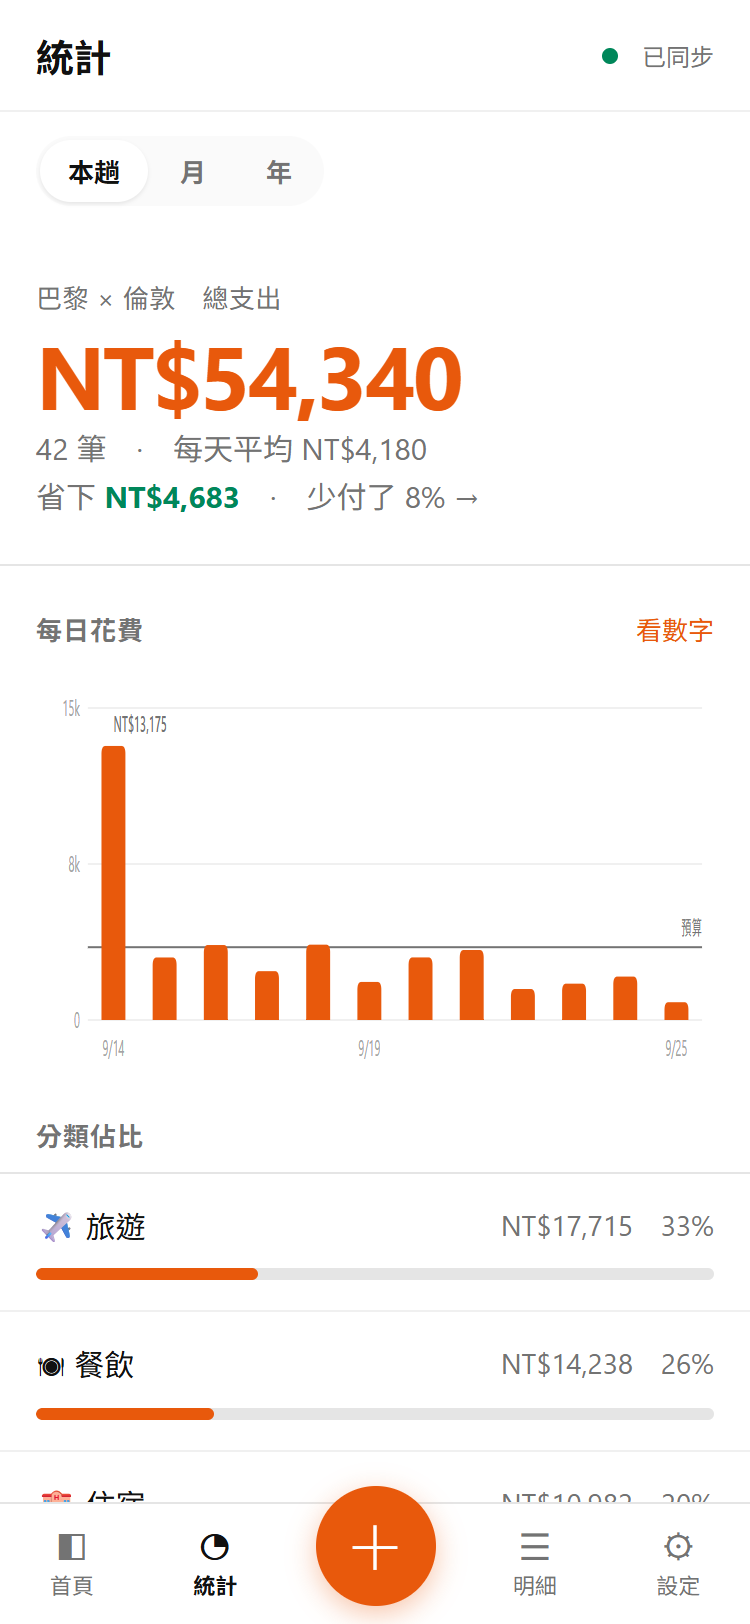
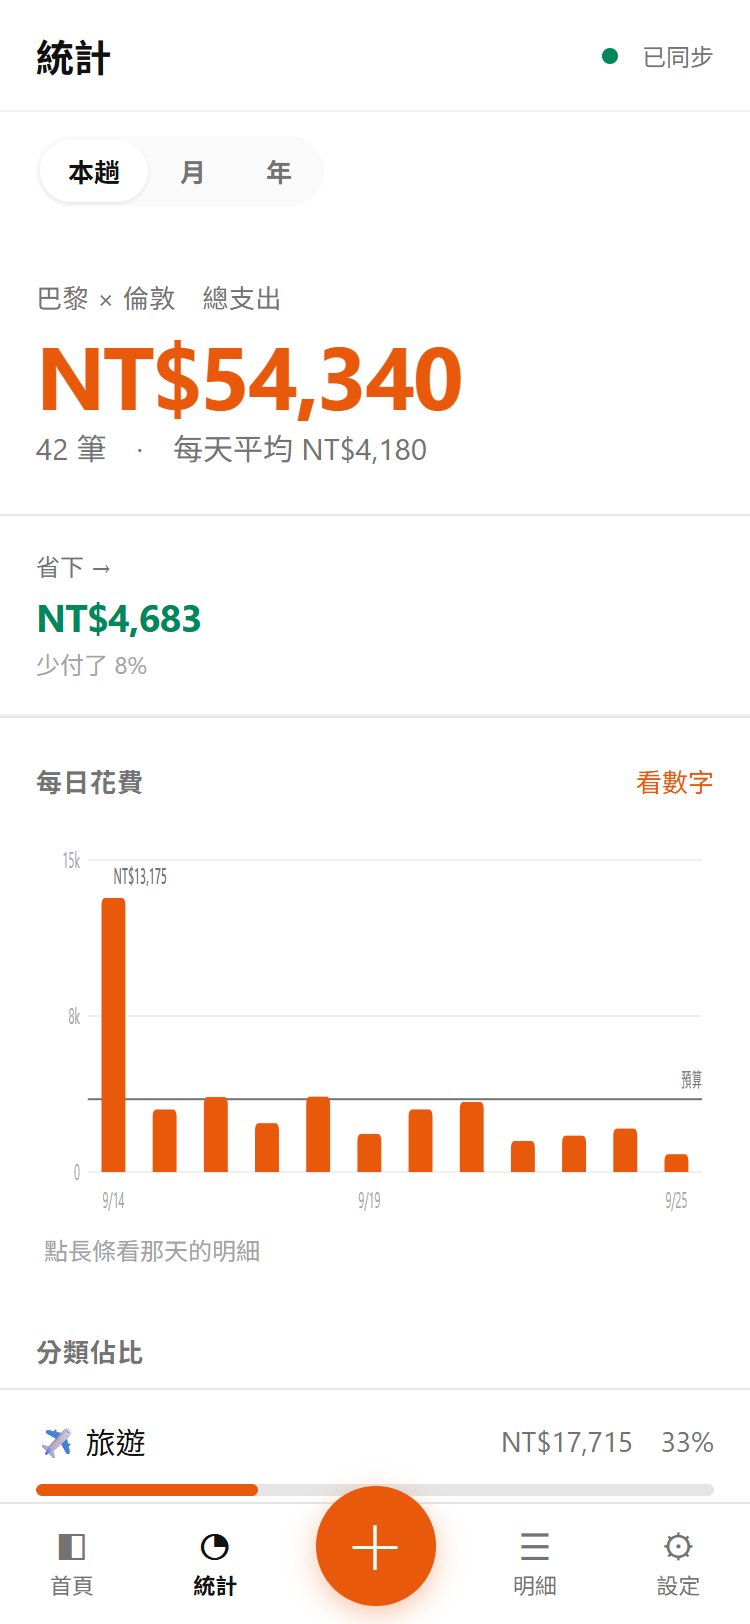
同步私有版：統計頁總支出下兩格並排、點長條展開當天明細

diff --git a/public/app.js b/public/app.js
@@ -26,6 +26,7 @@ const state = {
   selectedDate: null,        // 月曆選中的日期；記帳會落在這天
   statsPeriod: "trip",       // 'trip' | 'month' | 'year'
   statsMonth: "",            // YYYY-MM
+  statsDay: null,            // 統計圖點選的那天，圖表下方展開明細
   statsYear: "",             // YYYY
 };
 
@@ -2503,6 +2504,33 @@ function statsPeriodBar() {
   </div>`;
 }
 
+// 總支出下面的「跟上期比」與「省下」，兩格並排。
+// 原本是兩行小字接在總支出後面，手機上擠成一團（使用者回報過），改成跟首頁數字格同一種樣子。
+
+function compareParts(scope, total, prevTotal, savedRows, savedTotal) {
+  const prev = prevTotal !== null && (prevTotal || total) ? (() => {
+    if (!prevTotal) return { none: `${scope.prevLabel}沒有紀錄` };
+    const diff = total - prevTotal;
+    return { label: `比${scope.prevLabel}`, word: diff >= 0 ? "多" : "少", amount: Math.abs(diff),
+             pct: Math.round(Math.abs(diff) / prevTotal * 100), prevTotal,
+             color: diff > 0 ? "var(--danger)" : "var(--ok)" };
+  })() : null;
+  const saved = savedRows.length
+    ? { amount: savedTotal, pct: Math.round(savedTotal / (total + savedTotal) * 100) } : null;
+  return { prev, saved };
+}
+
+function compareGrid(...args) {
+  const { prev, saved } = compareParts(...args);
+  if (!prev && !saved) return "";
+  const prevCell = prev ? `<div class="stat${saved ? "" : " full"}"><div class="k">${esc(prev.none ? args[0].prevLabel : prev.label)}</div>${prev.none
+      ? `<div class="v num">—</div><div class="sub">沒有紀錄</div>`
+      : `<div class="v num" style="color:${prev.color}">${prev.word} ${esc(fx.formatTwd(prev.amount))}</div><div class="sub num">${esc(args[0].prevLabel)} ${esc(fx.formatTwd(prev.prevTotal))}</div>`}</div>` : "";
+  const savedCell = saved ? `<button class="stat saved${prev ? "" : " full"}" data-act="savings"><div class="k">省下 →</div>
+      <div class="v num">${esc(fx.formatTwd(saved.amount))}</div><div class="sub">少付了 ${saved.pct}%</div></button>` : "";
+  return `<div class="statgrid cmpgrid">${prevCell}${savedCell}</div>`;
+}
+
 function renderStats() {
   const scope = statsScope();
   const rows = scope.rows;
@@ -2563,20 +2591,21 @@ function renderStats() {
           const dayCount = new Set(rows.map((e) => e.spent_date)).size;
           return dayCount ? `　·　每天平均 ${fx.formatTwd(total / dayCount)}` : "";
         })()}</div>
-        ${prevTotal !== null && (prevTotal || total) ? `<div class="secondary num" style="margin-top:6px">${(() => {
-          if (!prevTotal) return `${esc(scope.prevLabel)}沒有紀錄`;
-          const diff = total - prevTotal;
-          const pct = Math.round(Math.abs(diff) / prevTotal * 100);
-          const color = diff > 0 ? "var(--danger)" : "var(--ok)";
-          return `${esc(scope.prevLabel)} ${fx.formatTwd(prevTotal)}　<b style="color:${color}">${diff >= 0 ? "多" : "少"} ${fx.formatTwd(Math.abs(diff))}（${pct}%）</b>`;
-        })()}</div>` : ""}
-        ${savedRows.length ? `<button class="secondary num savedline" data-act="savings">
-          省下 <b>${esc(fx.formatTwd(savedTotal))}</b>　·　少付了 ${Math.round(savedTotal / (total + savedTotal) * 100)}% →</button>` : ""}
       </div>
+      ${compareGrid(scope, total, prevTotal, savedRows, savedTotal)}
       ${days.length > 1 ? `
       <div class="section-head"><h2>每日花費</h2><button class="more" data-act="toggle-table">看數字</button></div>
-      ${dailyChart(days, budget)}
-      ${dailyTable(days)}` : ""}
+      ${dailyChart(days, budget, state.statsDay)}
+      ${dailyTable(days)}
+      ${(() => {
+        if (!state.statsDay || !days.some((d) => d.date === state.statsDay)) {
+          return `<div class="chart-hint">點長條看那天的明細</div>`;
+        }
+        const dayRows = onTrip.filter((e) => e.spent_date === state.statsDay);
+        return `<div class="daypick">${dayRows.length
+          ? dayGroupsHtml(dayRows)
+          : `<div class="dayhead"><span class="d">${esc(fx.formatDateLabel(state.statsDay))}</span><span class="t num">${esc(fx.formatTwd(0))}</span></div><div class="chart-hint">這天沒有花費</div>`}</div>`;
+      })()}` : ""}
 
       <div class="section-head"><h2>分類佔比</h2></div>
       <div class="rows">
@@ -2749,6 +2778,7 @@ function bindScreen() {
   for (const el of app.querySelectorAll("[data-period]")) {
     el.onclick = async () => {
       state.statsPeriod = el.dataset.period;
+      state.statsDay = null;
       await db.setMeta("stats_period", state.statsPeriod);
       render();
     };
@@ -2756,6 +2786,7 @@ function bindScreen() {
   for (const el of app.querySelectorAll("[data-stats]")) {
     el.onclick = () => {
       const d = el.dataset.stats === "prev" ? -1 : 1;
+      state.statsDay = null;
       if (state.statsPeriod === "month") state.statsMonth = shiftMonth(state.statsMonth, d);
       if (state.statsPeriod === "year") state.statsYear = String(+state.statsYear + d);
       render();
@@ -2768,6 +2799,17 @@ function bindScreen() {
       render();
     };
   }
+  // 統計圖的長條：點了在圖表下方展開那天的明細，再點一次收起
+  for (const el of app.querySelectorAll(".hit[data-day]")) {
+    el.addEventListener("click", () => {
+      buzz();
+      state.statsDay = state.statsDay === el.dataset.day ? null : el.dataset.day;
+      render();
+      app.querySelector(".daypick")?.scrollIntoView({ block: "nearest", behavior: "smooth" });
+    });
+    el.addEventListener("keydown", (ev) => { if (ev.key === "Enter") el.dispatchEvent(new Event("click")); });
+  }
+
   for (const el of app.querySelectorAll("[data-date]")) {
     el.onclick = () => {
       buzz();

diff --git a/public/charts.js b/public/charts.js
@@ -34,7 +34,7 @@ function barPath(x, y, w, h) {
  * days: [{ date: 'YYYY-MM-DD', twd: number }]，已按日期排序
  * budget: 每日預算（台幣），沒有就傳 null
  */
-export function dailyChart(days, budget) {
+export function dailyChart(days, budget, selected = null) {
   if (!days.length) return "";
 
   const W = 680, H = 200;                      // viewBox 座標，實際寬度由 CSS 撐滿
@@ -56,7 +56,7 @@ export function dailyChart(days, budget) {
 
   return `
   <figure class="chart" role="group" aria-label="每日花費長條圖">
-    <svg viewBox="0 0 ${W} ${H}" preserveAspectRatio="none" class="chart-svg">
+    <svg viewBox="0 0 ${W} ${H}" preserveAspectRatio="none" class="chart-svg${selected ? " picking" : ""}">
       ${ticks.map((t) => `
         <line class="grid" x1="${padL}" x2="${W - padR}" y1="${y(t).toFixed(1)}" y2="${y(t).toFixed(1)}"/>
         <text class="tick num" x="${padL - 8}" y="${(y(t) + 4).toFixed(1)}" text-anchor="end">${t >= 1000 ? Math.round(t / 1000) + "k" : Math.round(t)}</text>
@@ -70,7 +70,7 @@ export function dailyChart(days, budget) {
       ${days.map((d, i) => {
         const x = padL + band * i + (band - barW) / 2;
         const h = Math.max(0, padT + plotH - y(d.twd));
-        return `<path class="bar" d="${barPath(x, y(d.twd), barW, h)}"/>`;
+        return `<path class="bar${d.date === selected ? " on" : ""}" d="${barPath(x, y(d.twd), barW, h)}"/>`;
       }).join("")}
 
       ${days.map((d, i) => labelIdx.has(i)
@@ -90,7 +90,7 @@ export function dailyChart(days, budget) {
       ${days.map((d, i) => `
         <rect class="hit" data-i="${i}" x="${(padL + band * i).toFixed(1)}" y="${padT}"
               width="${band.toFixed(1)}" height="${plotH}"
-              data-date="${esc(d.date)}" data-twd="${d.twd}"/>
+              data-day="${esc(d.date)}" data-twd="${d.twd}"/>
       `).join("")}
     </svg>
     <div class="chart-tip" hidden></div>
@@ -115,7 +115,7 @@ export function bindChart(root) {
   const svg = fig.querySelector(".chart-svg");
 
   const show = (rect) => {
-    const date = rect.dataset.date;
+    const date = rect.dataset.day;
     const twd = Number(rect.dataset.twd);
     tip.innerHTML = `<span class="d">${esc(fx.formatDateLabel(date))}</span><span class="v num">${esc(fx.formatTwd(twd))}</span>`;
     tip.hidden = false;

diff --git a/public/app.css b/public/app.css
@@ -656,9 +656,6 @@ button { background: none; border: 0; cursor: pointer; padding: 0; }
 .fieldtab.on .v { color: var(--text); }
 .fieldtab.ref.on { color: var(--ok); box-shadow: inset 0 -3px 0 var(--ok); }
 
-/* 統計頁總支出下面那行省下，點了進省下清單 */
-.savedline { display: block; margin-top: 6px; padding: 0; text-align: left; color: var(--muted); }
-.savedline b { color: var(--ok); }
 
 /* ---------------------------------------------------------------- 計算機浮層 */
 
@@ -696,3 +693,16 @@ button { background: none; border: 0; cursor: pointer; padding: 0; }
 .saveline .sub { display: block; font-size: 12px; color: var(--faint); margin-top: 1px; }
 .saveline .amt { text-align: right; flex: none; margin-left: auto; }
 .saveline .amt .a { display: block; font-size: 15px; font-weight: 650; }
+
+/* ---------------------------------------------------------------- 統計：跟上期比、省下 */
+
+.cmpgrid .stat { text-align: left; }
+.cmpgrid .stat.full { grid-column: span 2; border-right: 0; }
+.cmpgrid button.stat:active { background: var(--raised); }
+.cmpgrid .stat .v { font-size: 19px; }
+
+/* 點長條：選中的那天換深色，圖表下方展開那天的明細 */
+.chart-svg.picking .bar:not(.on) { opacity: .3; }
+.chart-hint { padding: 4px 22px 10px; font-size: 12px; color: var(--faint); }
+.daypick { border-top: 1px solid var(--line); }
+

diff --git a/public/sw.js b/public/sw.js
@@ -9,7 +9,7 @@
 // 旅行時最難搞的不是完全沒網路，而是連得上卻慢得要命的公共 Wi-Fi。
 // 網路優先會讓開啟 App 卡在等逾時；反正資料在 IndexedDB，shell 拿舊的也無所謂。
 
-const VERSION = "v23";
+const VERSION = "v25";
 const CACHE = "tm-shell-" + VERSION;
 
 // 注意：不要放 "/index.html"。

diff --git a/README.md b/README.md
@@ -18,7 +18,7 @@ Log on the phone, review on a laptop; it works fully offline, in any currency.
 <td width="50%" valign="top"><img src="docs/screenshots/02-saved.png" width="260" alt="Saved page"><br>
 <sub><b>Saved.</b> Running total, which category saves most, and each entry with its discount %. Never subtracted from spending.</sub></td>
 <td width="50%" valign="top"><img src="docs/screenshots/03-stats.png" width="260" alt="Daily spending chart"><br>
-<sub><b>Stats.</b> Total spending with what I saved and the discount % right under it, then daily spending against the budget line and spending by category.</sub></td>
+<sub><b>Stats.</b> Total spending, with what I saved and the discount % right under it, then daily spending against the budget line. Tapping a bar opens that day's entries below the chart.</sub></td>
 </tr>
 <tr>
 <td width="50%" valign="top"><img src="docs/screenshots/04-accounts.png" width="260" alt="Currency exchange form"><br>
@@ -118,8 +118,8 @@ Balances are netted automatically (what they owe me minus what I owe them), and 
 
 ## Stats
 
-- **What I saved, right under the total**: the amount and the discount % for the same period, one tap from the full Saved page
-- **Daily spending bar chart**, hand-written SVG, with a budget reference line, hover tooltips and a table view (a tooltip must never be the only way to read a value)
+- **Right under the total, two cells**: the change against last month (or last year), and what I saved with the discount % for the same period, one tap from the full Saved page
+- **Daily spending bar chart**, hand-written SVG, with a budget reference line, hover tooltips and a table view (a tooltip must never be the only way to read a value). Tapping a bar opens that day's entries right below the chart, without leaving the page
 - **By category, by country, by currency**, for the current trip, a month or a year
 - **Tax-refund list**, with entries marked as claimed
 
@@ -236,6 +236,7 @@ CLAUDE.md             The standing brief I give AI coding agents: decisions alre
 - **Savings** (2026-08-27 to 08-29): reference price on every entry, entered right on the logging keypad; a "how I saved" note; a Saved page with totals, per-category breakdown and discount %; a savings CSV
 - **Google Sheets sync** (2026-08-31): read-only export endpoint with its own token, nightly Apps Script with three sheets
 - **Savings up front** (2026-09-25): what I've saved now sits on the home screen and under the stats total instead of at the bottom of the stats page; the paid / original-price switch moved from the top row to just above the keypad, within thumb reach; Stats moved to the second tab
+- **Stats tidy-up** (2026-10-20): the comparison and savings lines under the total were cramped on a phone, so they became two cells; tapping a bar in the daily chart shows that day's entries
 
 ### How it was verified
 

diff --git a/CLAUDE.md b/CLAUDE.md
@@ -59,7 +59,7 @@ That situation almost always means the wrong wallet was picked while logging, an
 |---|---|
 | Home | How much today? How much this trip? How much have I saved? What did I just log? (**Deliberately only three blocks; don't pile more on top**; "saved" is one cell in the number grid, not a separate block, and doesn't link to the Saved page) |
 | Entries | Every entry, tap to edit |
-| Stats | Where did the money go (category share, spending by country), and how much did I save (one line under the total: amount saved + discount %, tapping it opens the Saved page) |
+| Stats | Where did the money go (category share, spending by country), and how much did I save (two cells under the total: change vs last month / year, and amount saved + discount %, tapping it opens the Saved page). Tapping a bar in the daily chart opens that day's entries right below the chart, without leaving the page |
 | Accounts | How much do I have left (cash balances, card limit this month). Opened from 💳 in the home header or from Settings |
 | Settings | Trips, payment methods, exchange rates, sync |
 
